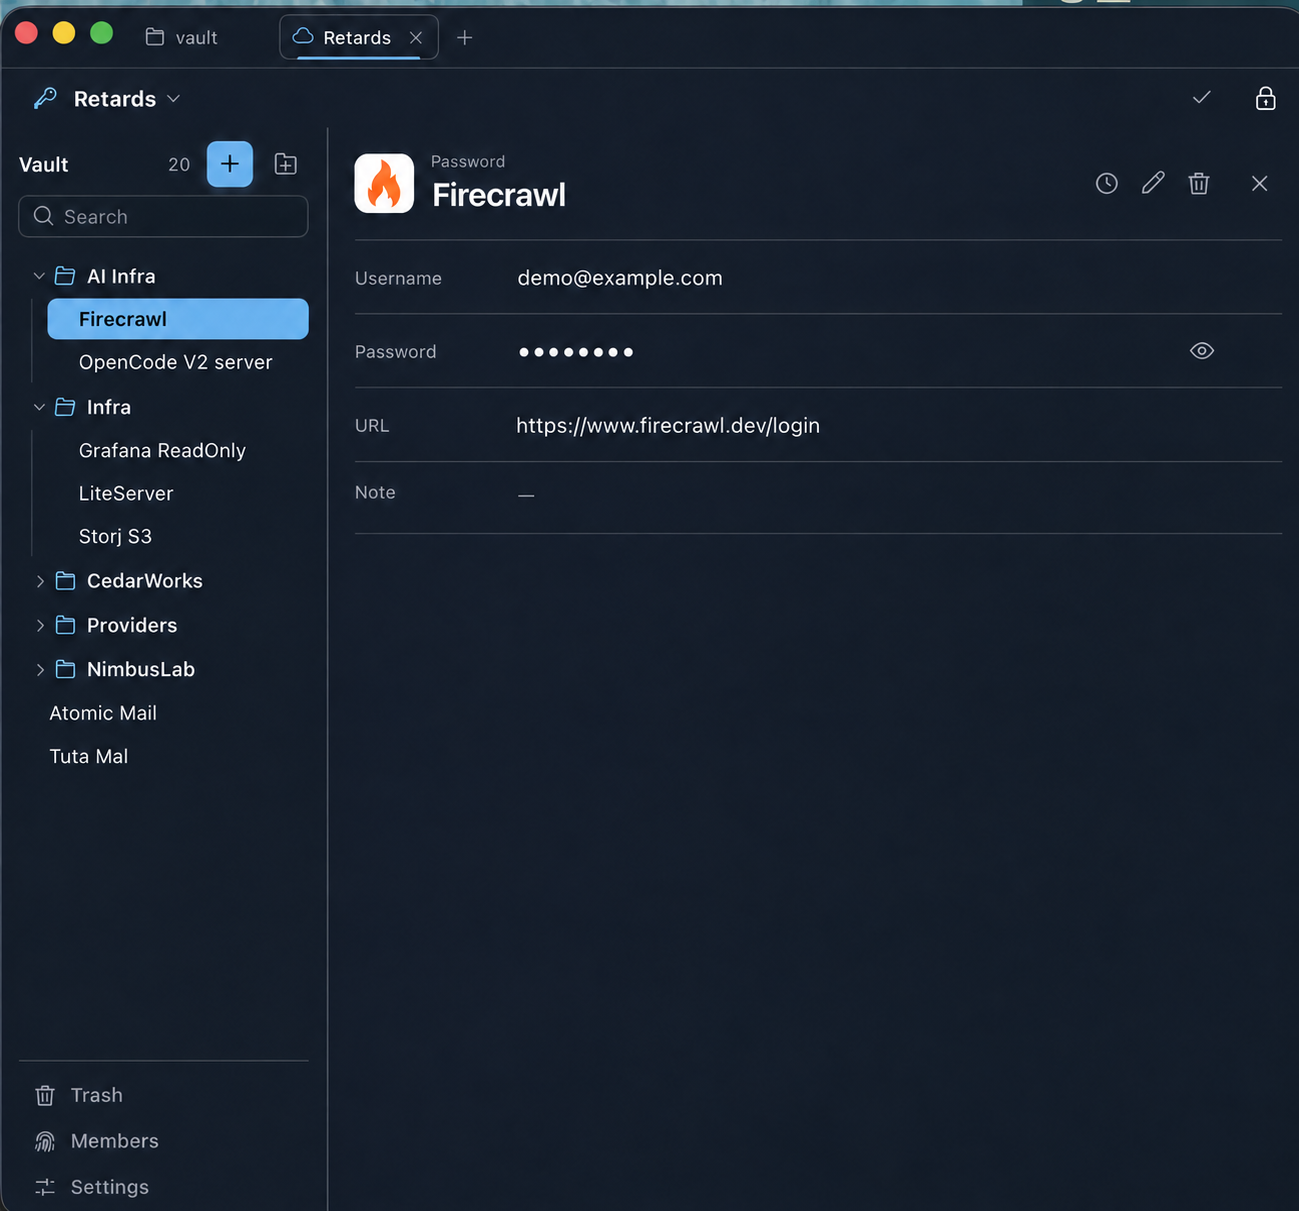
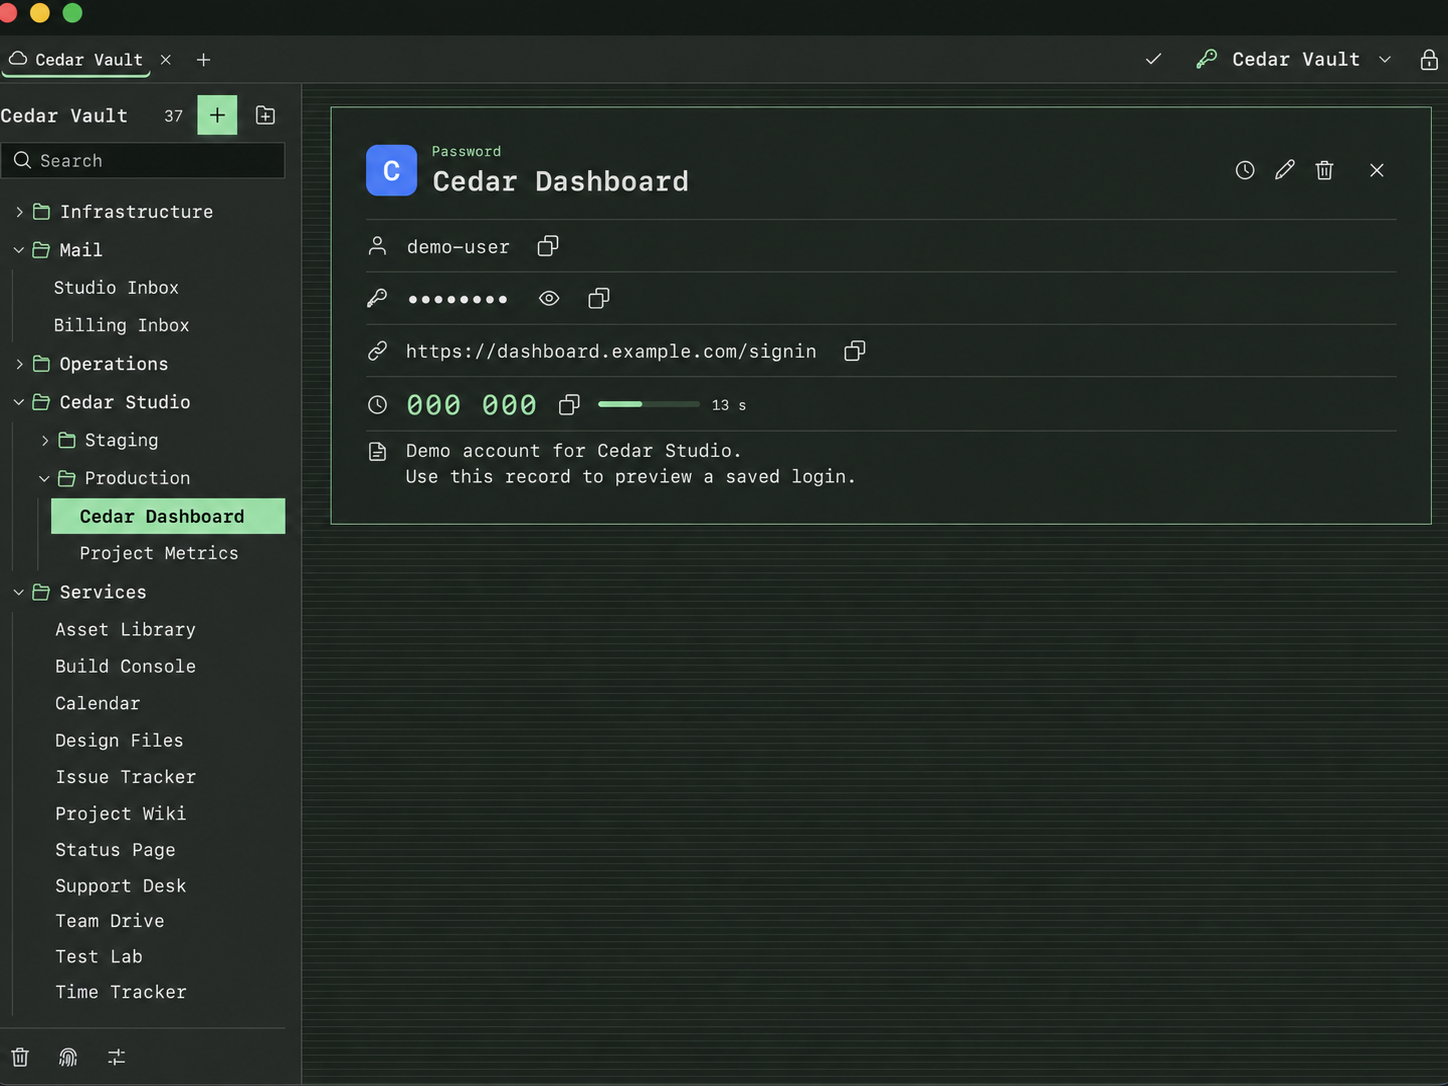
docs: anonymize README screenshot

diff --git a/README.md b/README.md
@@ -2,7 +2,7 @@
 
 **Local-first, serverless password manager for teams, powered by S3-compatible storage.**
 
-![Lockbox desktop app showing folders and a saved login in dark mode](docs/images/lockbox-screenshot.png)
+![Lockbox desktop app in dark mode showing demo folders and a fictional Cedar Dashboard login](docs/images/lockbox-screenshot.png)
 
 Keep passwords, TOTP codes, and attachments in encrypted vaults on your own devices. Share access with your team through an object storage bucket, with local edits available offline and encrypted changes exchanged in the background.
 
